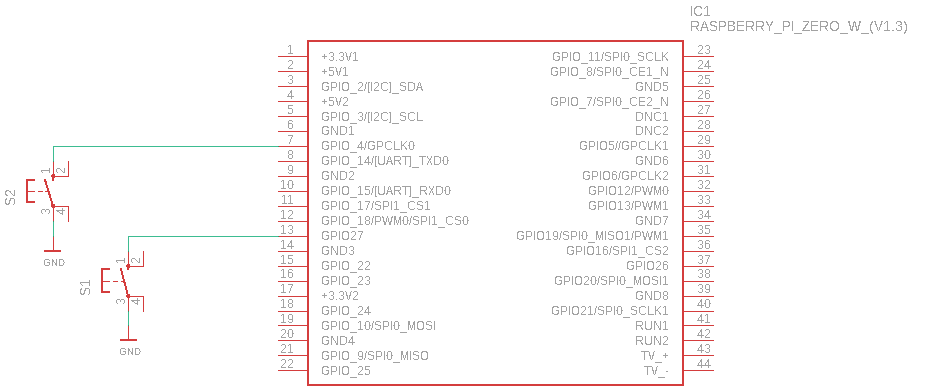
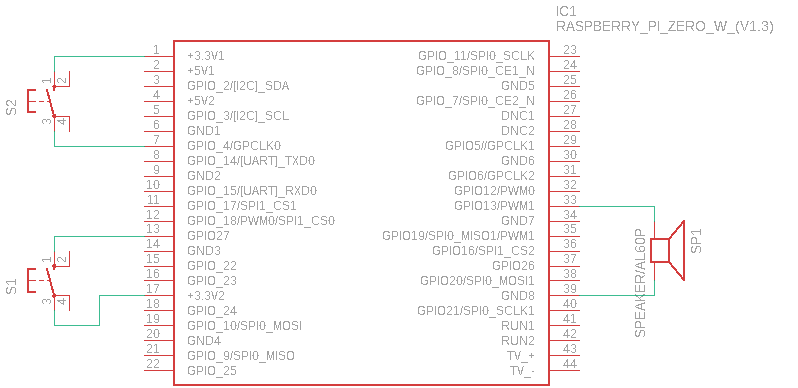
Backing up; almost done electrical design section, need to find PowerBoost header files for eagle.

diff --git a/report.tex b/report.tex
@@ -505,7 +505,18 @@ The housing for the glasses was designed from scratch using CAD software. The ma
 The ultimate solution for the glasses was to print the case in three pieces, which attached to one another with integrated clips. Each part of the housing is printed facing downwards, i.e. with the flat side against the build plate. This allows for minimal use of support structures, resulting in a much faster print time, lower material usage, and high durability. Via the use of internal standoffs, the electronics are held in place inside the case without glue (while also being aligned with openings for cables/buttons/etc). Both the battery pack and electronics housing use a wrap-around clip system which holds itself together, meaning no glue is needed to assemble them. These clip harnesses attach to the glasses arms using 2 small clips; in order to size the system to their glasses, a user only needs to measure one arm of their glasses at two points, and then print all 4 small clips. The material cost of the case is around \$0.30, and the total print time is approximately 2h.
 
 \subsubsection{Electrical Design}
+In an effort to make the design as reproducible as possible, the electrical design of Vizia uses entirely common off-the-shelf components. The Raspberry Pi connects to two switches and one piezoelectric buzzer as shown in the schematic below.
 
+\begin{center}
+    \includegraphics[scale=1.0]{img/schematics/vizia-rpi.png}
+\end{center}
+
+The Adafruit PowerBoost 500 Board was used to connect the battery to the Raspberry Pi. A SPDT slide switch was connected to it to allow for a second point of power disconnection for the user. The power output pins of the PowerBoost were wired directly to a disassembled microUSB cable. A schematic describing these connections and images of the disassembled cable are shown below.
+
+\begin{center}
+    \includegraphics[scale=0.05]{img/schematics/vizia-power-usb-conn.png}
+    \includegraphics[scale=0.05]{img/schematics/vizia-power-usb.png}
+\end{center}
 
 \subsection{Server}
 \label{server}
@@ -1105,10 +1116,10 @@ Codebrainz, “Color-names/colors.csv at master · codebrainz/color-names,” Gi
 “Build apps for free on Heroku,” Heroku. [Online]. Available: https://www.heroku.com/free. [Accessed: 09-Apr-2022].
 
 \bibitem{aws-lambda}
-“Lambda,” Amazon, 2022. [Online]. Available: https://aws.amazon.com/lambda/. [Accessed: 09-Apr-2022]. 
+“Lambda,” Amazon. [Online]. Available: https://aws.amazon.com/lambda/. [Accessed: 09-Apr-2022]. 
 
 \bibitem{aws-ec2}
-“EC2,” Amazon, 1987. [Online]. Available: https://aws.amazon.com/ec2/. [Accessed: 09-Apr-2022].
+“EC2,” Amazon. [Online]. Available: https://aws.amazon.com/ec2/. [Accessed: 09-Apr-2022].
 
 \bibitem{pytorch}
 “Pytorch,” PyTorch. [Online]. Available: https://pytorch.org/. [Accessed: 09-Apr-2022]. 
